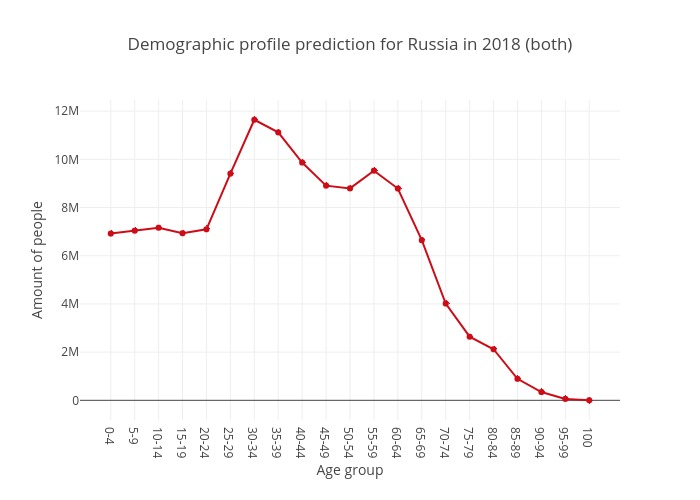
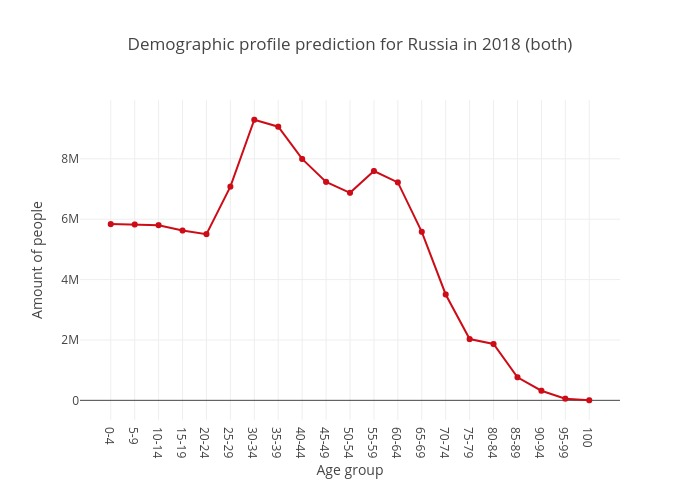
Lost population found + population_data.txt added with total population info

diff --git a/Lab1/main.py b/Lab1/main.py
@@ -18,13 +18,13 @@ def get_population(years, fertility, type):
     test = model.pred_model_1_year_with_fertility(years, fertility, type)
     population = []
     for i in range(2005, 2005 + years + 1):
-        population.append(list(model.total_population(test, i)))
+        population+= model.total_population(test, i)
     return ([fertility, population])
 
 
 def main():
     type = 'both'
-    for i in range(130, 201):
+    for i in range(201, 221):
         print(get_population(100, i / 100, type))
         # print("")
     # vis.show_profile(prediction, 2018, type, '1 year model 2018 profile for '+type)

diff --git a/Lab1/prediction_model.py b/Lab1/prediction_model.py
@@ -171,4 +171,4 @@ class PredictionModel:
         total = 0
         for group in self.age_groups:
             total += data[group].values
-        return total
+        return list(total)
